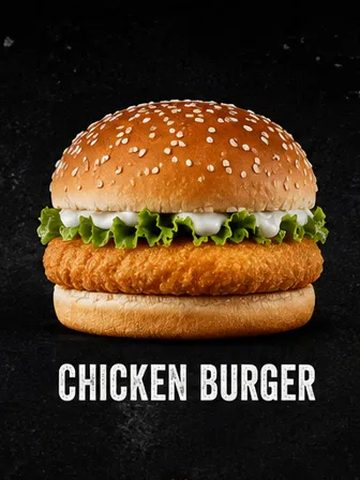
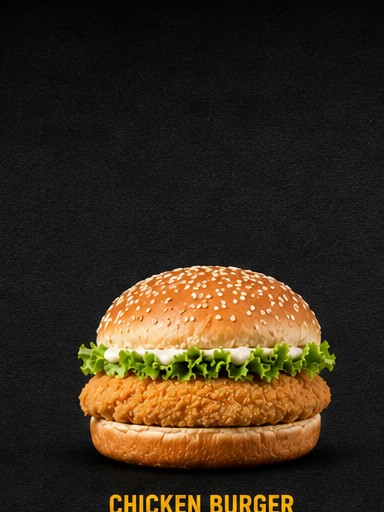
add real menu photos for pizzas and burgers, fix image display, add branch contacts

diff --git a/src/components/ContactSection.tsx b/src/components/ContactSection.tsx
@@ -1,67 +1,51 @@
 import SectionHeading from "./SectionHeading";
 import ContactForm from "./ContactForm";
 
+const BRANCHES = [
+  { name: "Mian Channu", phonePrimary: "0318-7739973", phoneSecondary: "0300-1520250", address: "Shaheed Rd, near Municipal Gym, Mian Channu, 60000" },
+  { name: "Sahiwal", phonePrimary: "0304-1112302", phoneSecondary: "0325-0662266", address: "M4C7+Q9X, Girls College Rd, Fateh Sher Colony, Sahiwal" },
+  { name: "Chichawatni", phonePrimary: "0300-1580250", phoneSecondary: "0300-1580250", address: "Kamboh Road Street Number 12, Block 12, Chichawatni, 57200" },
+];
+
 export default function ContactSection() {
   const phonePrimary = process.env.NEXT_PUBLIC_RESTAURANT_PHONE_PRIMARY || "0304-1114303";
   const phoneSecondary = process.env.NEXT_PUBLIC_RESTAURANT_PHONE_SECONDARY || "0300-1580250";
-  const address =
-    process.env.NEXT_PUBLIC_RESTAURANT_ADDRESS || "Zahid Iqbal Chowk, Chichawatni, Punjab, Pakistan";
+  const address = process.env.NEXT_PUBLIC_RESTAURANT_ADDRESS || "Zahid Iqbal Chowk, Chichawatni, Punjab, Pakistan";
 
   return (
     <section id="contact" aria-labelledby="contact-heading" className="scroll-mt-24 bg-oven-teal-dark/40 py-16 sm:py-24">
       <div className="container-page">
-        <SectionHeading
-          id="contact-heading"
-          eyebrow="Order, reserve or ask"
-          title="Order or Reserve a Table"
-          tagline="Call us directly, or send a message and we'll ring you back."
-        />
-
+        <SectionHeading id="contact-heading" eyebrow="Order, reserve or ask" title="Order or Reserve a Table" tagline="Call us directly, or send a message and we'll ring you back." />
         <div className="mt-12 grid gap-8 lg:grid-cols-5">
           <div className="lg:col-span-2">
             <div className="space-y-6 rounded-xl2 border border-oven-cream/10 bg-oven-teal-deep/50 p-6 shadow-card sm:p-8">
               <div>
                 <h3 className="font-display text-lg text-oven-crust">Call for free delivery</h3>
-                <a
-                  href={`tel:${phonePrimary.replace(/-/g, "")}`}
-                  className="mt-1 block font-mono text-2xl text-oven-cream hover:text-oven-flame-light"
-                >
-                  {phonePrimary}
-                </a>
-                <a
-                  href={`tel:${phoneSecondary.replace(/-/g, "")}`}
-                  className="mt-1 block font-mono text-lg text-oven-cream/80 hover:text-oven-flame-light"
-                >
-                  {phoneSecondary}
-                </a>
+                <a href={`tel:${phonePrimary.replace(/-/g, "")}`} className="mt-1 block font-mono text-2xl text-oven-cream hover:text-oven-flame-light">{phonePrimary}</a>
+                <a href={`tel:${phoneSecondary.replace(/-/g, "")}`} className="mt-1 block font-mono text-lg text-oven-cream/80 hover:text-oven-flame-light">{phoneSecondary}</a>
               </div>
-
               <div>
                 <h3 className="font-display text-lg text-oven-crust">Find us</h3>
                 <p className="mt-1 text-oven-cream/80">{address}</p>
               </div>
-
               <div>
                 <h3 className="font-display text-lg text-oven-crust">Follow along</h3>
                 <div className="mt-2 flex gap-3">
-                  <a
-                    href="https://www.tiktok.com/@theovenmianchichawatni"
-                    target="_blank"
-                    rel="noopener noreferrer"
-                    className="rounded-full border border-oven-cream/15 px-4 py-2 text-sm text-oven-cream/80 hover:border-oven-flame-light hover:text-oven-flame-light"
-                  >
-                    TikTok
-                  </a>
-                  <a
-                    href="https://www.facebook.com/theovenmianchichawatni"
-                    target="_blank"
-                    rel="noopener noreferrer"
-                    className="rounded-full border border-oven-cream/15 px-4 py-2 text-sm text-oven-cream/80 hover:border-oven-flame-light hover:text-oven-flame-light"
-                  >
-                    Facebook
-                  </a>
+                  <a href="https://www.tiktok.com/@theovenmianchichawatni" target="_blank" rel="noopener noreferrer" className="rounded-full border border-oven-cream/15 px-4 py-2 text-sm text-oven-cream/80 hover:border-oven-flame-light hover:text-oven-flame-light">TikTok</a>
+                  <a href="https://www.facebook.com/theovenmianchichawatni" target="_blank" rel="noopener noreferrer" className="rounded-full border border-oven-cream/15 px-4 py-2 text-sm text-oven-cream/80 hover:border-oven-flame-light hover:text-oven-flame-light">Facebook</a>
                 </div>
               </div>
+            </div>
+
+            <div className="mt-6 grid gap-4 sm:grid-cols-3 lg:grid-cols-1">
+              {BRANCHES.map((branch) => (
+                <div key={branch.name} className="rounded-xl2 border border-oven-cream/10 bg-oven-teal-deep/50 p-5 shadow-card">
+                  <h4 className="font-display text-base text-oven-crust">{branch.name}</h4>
+                  <a href={`tel:${branch.phonePrimary.replace(/-/g, "")}`} className="mt-1 block font-mono text-sm text-oven-cream hover:text-oven-flame-light">{branch.phonePrimary}</a>
+                  <a href={`tel:${branch.phoneSecondary.replace(/-/g, "")}`} className="block font-mono text-sm text-oven-cream/70 hover:text-oven-flame-light">{branch.phoneSecondary}</a>
+                  <p className="mt-2 text-sm text-oven-cream/70">{branch.address}</p>
+                </div>
+              ))}
             </div>
           </div>
 

diff --git a/src/components/AddToCartButton.tsx b/src/components/AddToCartButton.tsx
@@ -35,9 +35,9 @@ export default function AddToCartButton({
       <button
         type="button"
         onClick={() => setConfirmOpen(true)}
-              className={
+                  className={
           className ||
-          "inline-flex items-center gap-2 rounded-xl2 border-2 border-oven-flame/40 bg-oven-flame/10 px-5 py-2.5 font-mono text-sm font-medium text-oven-crust shadow-sm transition-colors hover:border-oven-flame-light hover:bg-oven-flame/20"
+          "inline-flex items-center gap-2 rounded-xl2 border border-oven-flame/30 bg-oven-flame/10 px-5 py-2.5 font-mono text-sm font-medium text-oven-crust shadow-[0_4px_20px_rgba(255,140,60,0.25)] transition-all hover:-translate-y-0.5 hover:border-oven-flame-light hover:bg-oven-flame/20 hover:shadow-[0_6px_24px_rgba(255,140,60,0.4)]"
         }
         aria-label={confirmTitle}
       >

diff --git a/src/components/MenuItemRow.tsx b/src/components/MenuItemRow.tsx
@@ -17,14 +17,14 @@ export default function MenuItemRow({
   return (
        <li className="rounded-xl border border-oven-cream/10 bg-oven-charcoal/30 p-4">
       <div className="flex gap-3">
-        {item.imageUrl ? (
-          <div className="relative h-16 w-16 shrink-0 overflow-hidden rounded-lg border border-oven-cream/10 sm:h-20 sm:w-20">
+               {item.imageUrl ? (
+          <div className="relative h-20 w-20 shrink-0 overflow-hidden rounded-lg border border-oven-cream/10 bg-oven-charcoal/40 sm:h-24 sm:w-24">
             <Image
               src={item.imageUrl}
               alt={item.name}
               fill
-              sizes="80px"
-              className="object-cover"
+              sizes="96px"
+              className="object-contain"
             />
           </div>
         ) : null}

diff --git a/src/components/MenuSection.tsx b/src/components/MenuSection.tsx
@@ -29,7 +29,7 @@ export default function MenuSection({
     >
       <div className="container-page">
         <SectionHeading id={`${id}-heading`} eyebrow={eyebrow} title={title} tagline={tagline} />
-        <div className="mt-12 grid gap-6 md:grid-cols-2 xl:grid-cols-2">
+                <div className="mt-12 grid gap-6 sm:grid-cols-2 xl:grid-cols-3">
           {categories.map((category) => (
             <MenuCategoryCard key={category.id} category={category} />
           ))}

diff --git a/prisma/seed.ts b/prisma/seed.ts
@@ -26,8 +26,9 @@ const categories: CategoryInput[] = [
     name: "The Oven Royalties",
     tagline: "Stone-baked pizzas, made to order",
     items: [
-      {
+           {
         name: "Arabic Bite",
+        imageUrl: "/images/menu-items/arabic-bite.jpg",
         prices: [
           { label: "Medium", priceRs: 1250 },
           { label: "Large", priceRs: 1750 },
